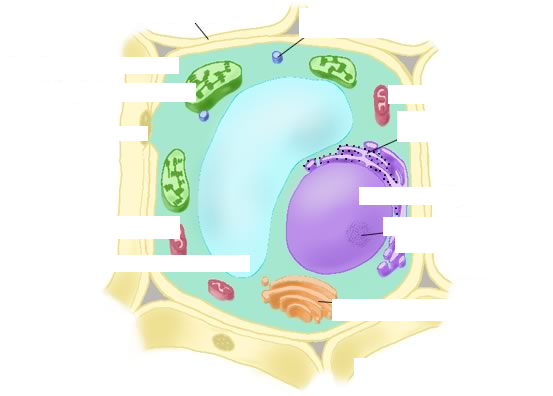
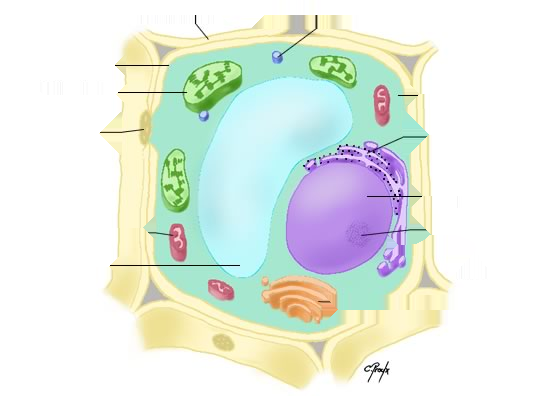
Add files via upload

diff --git a/subject-bio.js b/subject-bio.js
@@ -317,17 +317,17 @@
   ];
   var ANIM_PTS = [
     { l: 11.5, t: 6.5, w: 18, a: 'Réticulum endoplasmique rugueux' }, { l: 11.5, t: 15.8, w: 12, a: 'Ribosome' },
-    { l: 63.5, t: 3.6, w: 17, a: 'Pore nucléaire' }, { l: 63.5, t: 9.8, w: 11, a: 'Nucléole' }, { l: 63.5, t: 16.8, w: 22.5, a: 'Membrane nucléaire' },
-    { l: 87.5, t: 10.8, w: 9.5, a: 'Noyau' }, { l: 64.5, t: 26.8, w: 19, a: 'Appareil de Golgi' }, { l: 80, t: 33.8, w: 11, a: 'Centriole' },
-    { l: 79.5, t: 39.8, w: 11.5, a: 'Lysosome' }, { l: 80, t: 71, w: 13.5, a: 'Cytoplasme' },
+    { l: 63.5, t: 1.2, w: 17, a: 'Pore nucléaire' }, { l: 63.5, t: 7.3, w: 11, a: 'Nucléole' }, { l: 63.5, t: 14.3, w: 22.5, a: 'Membrane nucléaire' },
+    { l: 87.5, t: 10.8, w: 9.5, a: 'Noyau' }, { l: 64.5, t: 24.3, w: 19, a: 'Appareil de Golgi' }, { l: 80, t: 31.3, w: 11, a: 'Centriole' },
+    { l: 79.5, t: 37.3, w: 11.5, a: 'Lysosome' }, { l: 80, t: 71, w: 13.5, a: 'Cytoplasme' },
     { l: 11, t: 76.5, w: 17.5, a: 'Réticulum endoplasmique lisse' }, { l: 80, t: 88.5, w: 13, a: 'Membrane plasmique' }, { l: 12.3, t: 92.8, w: 15.5, a: 'Mitochondrie' }
   ];
   var VEG_PTS = [
-    { l: 23.9, t: 2, w: 18, a: 'Paroi cellulaire' }, { l: 54, t: 2, w: 17, a: 'Peroxysome' }, { l: 0.5, t: 13.5, w: 25, a: 'Membrane cellulaire' },
-    { l: 6.7, t: 20, w: 20, a: 'Chloroplaste' }, { l: 5, t: 33, w: 22, a: 'Ponctuation avec plasmodesme' },
-    { l: 4.9, t: 54.5, w: 24, a: 'Mitochondrie' }, { l: 1.4, t: 64.5, w: 26, a: 'Vacuole centrale' }, { l: 70.7, t: 21.5, w: 16, a: 'Cytosol' },
-    { l: 72, t: 28, w: 23, a: 'Réticulum endoplasmique rugueux' }, { l: 78, t: 35, w: 10, a: 'Noyau' }, { l: 82, t: 46, w: 13, a: 'Nucléole' },
-    { l: 69.8, t: 55, w: 24, a: 'Réticulum endoplasmique lisse' }, { l: 60.6, t: 84, w: 30, a: 'Appareil de Golgi' }
+    { l: 24, t: 2.3, w: 17, a: 'Paroi cellulaire' }, { l: 42, t: 1, w: 20, a: 'Peroxysome' }, { l: 0.5, t: 14.4, w: 22, a: 'Membrane cellulaire' },
+    { l: 6, t: 21.7, w: 16, a: 'Chloroplaste' }, { l: 5, t: 28.8, w: 18, a: 'Ponctuation avec plasmodesme' },
+    { l: 5, t: 55, w: 22, a: 'Mitochondrie' }, { l: 1, t: 65, w: 20, a: 'Vacuole centrale' }, { l: 74, t: 21, w: 14, a: 'Cytosol' },
+    { l: 71, t: 28.5, w: 22, a: 'Réticulum endoplasmique rugueux' }, { l: 75, t: 47, w: 13, a: 'Noyau' }, { l: 75, t: 55, w: 15, a: 'Nucléole' },
+    { l: 70, t: 60, w: 23, a: 'Réticulum endoplasmique lisse' }, { l: 60, t: 75, w: 30, a: 'Appareil de Golgi' }
   ];
 
   var sections = {};

diff --git a/sw.js b/sw.js
@@ -4,7 +4,7 @@
      repli sur le cache si hors-ligne. Évite d'afficher une vieille version.
    - Librairies CDN (MathJax, GSAP, Supabase, polices) : réseau d'abord, puis cache.
    - Supabase API & Giphy : jamais mis en cache (données/temps réel). */
-const CACHE = 'mathsgr2-v31';
+const CACHE = 'mathsgr2-v33';
 const CORE = [
   './', './index.html', './style.css',
   './data.js', './content.js', './script.js',
